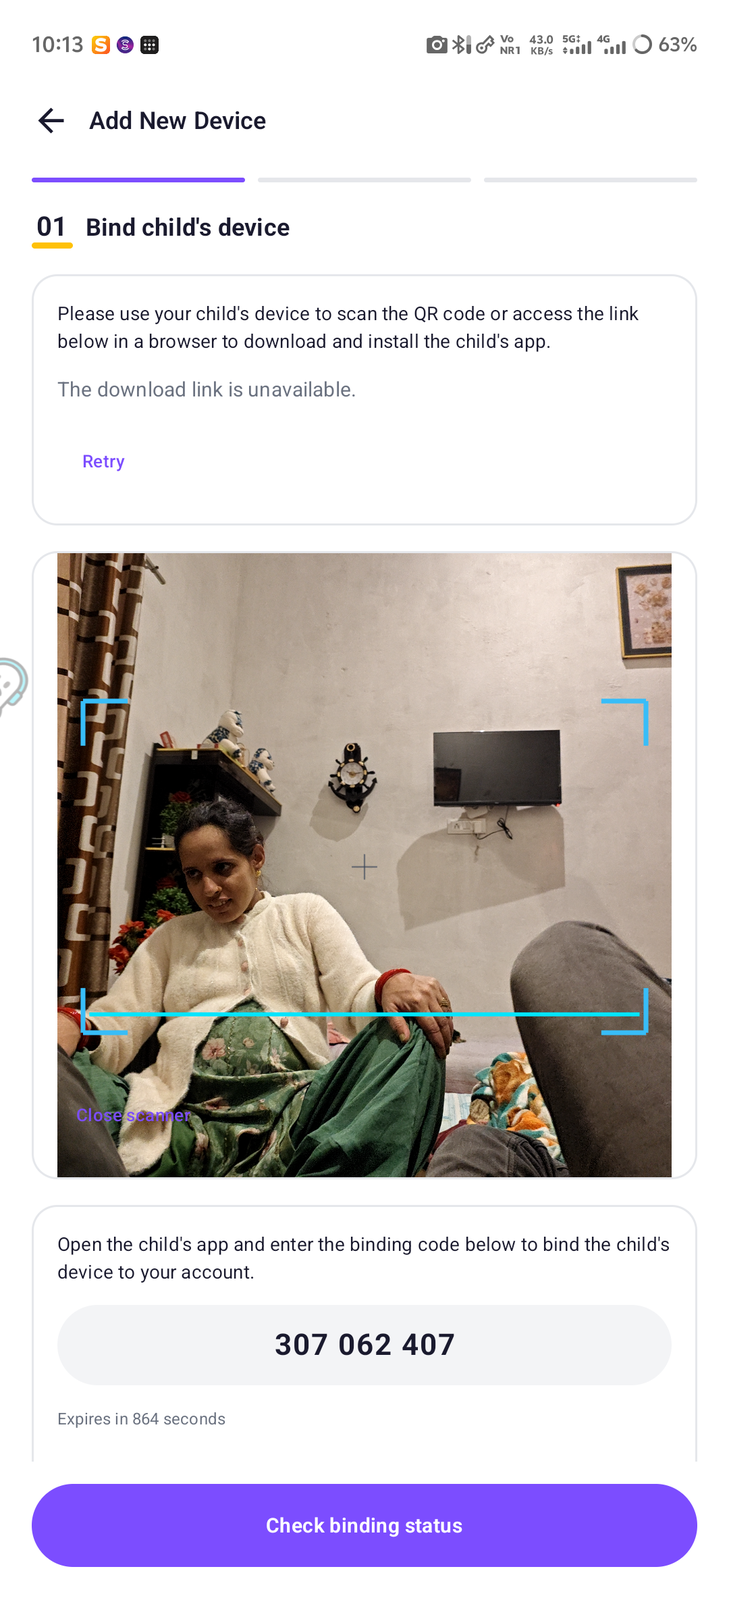
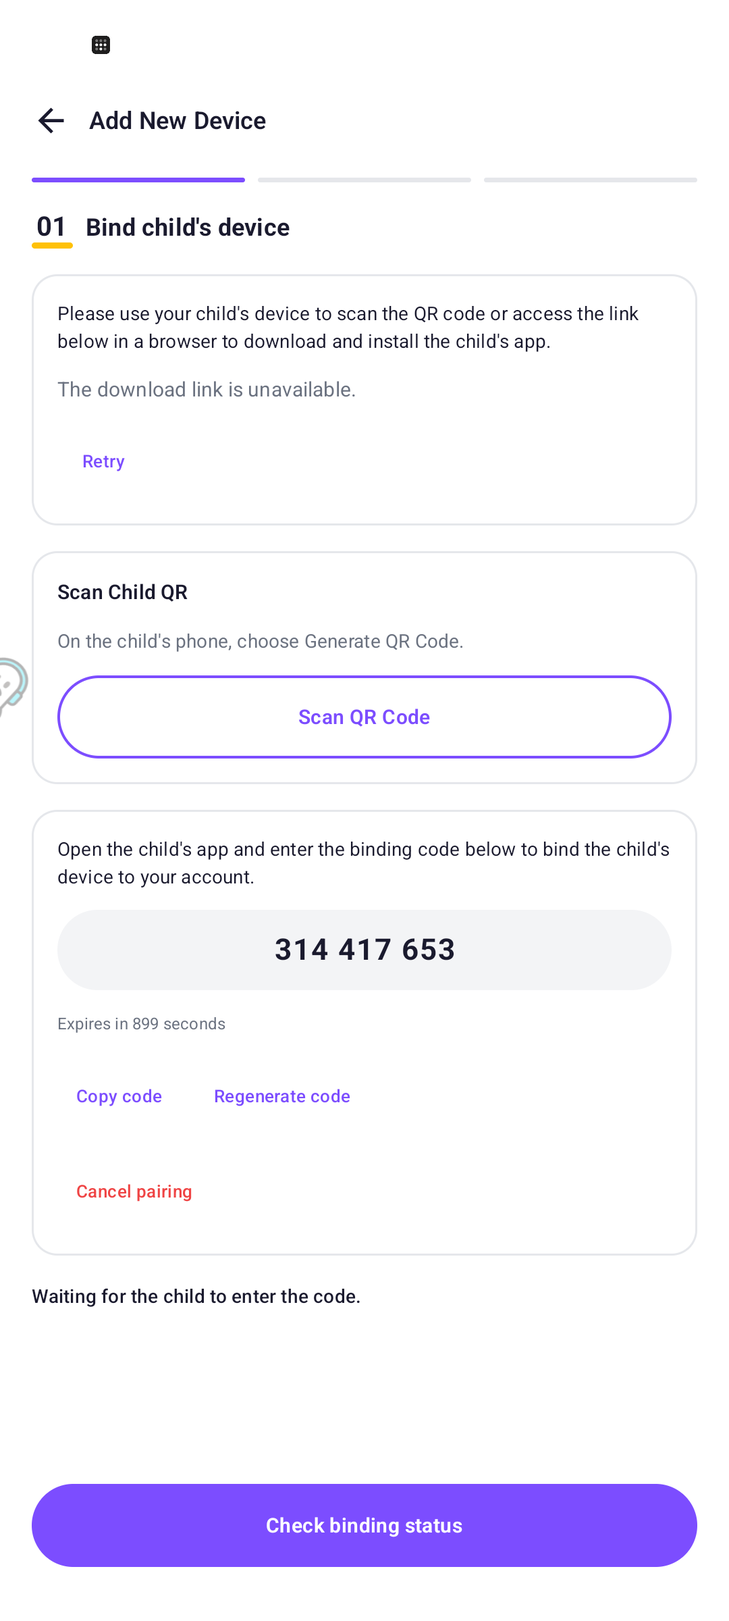
fix(pairing): resolve UI defects, purge invalid screenshots, and verify onboarding on physical device

diff --git a/Parent_app/app/src/main/kotlin/com/parentalcontrol/parent/ui/pairing/DevicePairingScreen.kt b/Parent_app/app/src/main/kotlin/com/parentalcontrol/parent/ui/pairing/DevicePairingScreen.kt
@@ -547,53 +547,123 @@ fun DevicePairingScreen(onNavigateBack: () -> Unit, onPairingSuccess: (String, S
     if (showCancelConfirm) {
         AlertDialog(
             onDismissRequest = { showCancelConfirm = false },
-            title = { Text("Cancel pending pairing?") },
-            text = { Text("This will invalidate the current binding code so it cannot be used to pair a device.") },
+            containerColor = ParentBg,
+            shape = RoundedCornerShape(20.dp),
+            title = {
+                Text(
+                    "Cancel pending pairing?",
+                    color = ParentTextDark,
+                    fontWeight = FontWeight.Bold,
+                    fontSize = 18.sp
+                )
+            },
+            text = {
+                Text(
+                    "This will invalidate the current binding code so it cannot be used to pair a device.",
+                    color = ParentTextMuted,
+                    fontSize = 14.sp
+                )
+            },
             dismissButton = {
-                TextButton({ showCancelConfirm = false }) { Text("Keep active") }
+                TextButton({ showCancelConfirm = false }) {
+                    Text("Keep active", color = ParentTextMuted, fontWeight = FontWeight.Medium)
+                }
             },
             confirmButton = {
-                Button({
-                    showCancelConfirm = false
-                    cancelCurrentEnrollment()
-                }) { Text("Cancel pairing") }
+                Button(
+                    onClick = {
+                        showCancelConfirm = false
+                        cancelCurrentEnrollment()
+                    },
+                    shape = RoundedCornerShape(50),
+                    colors = ButtonDefaults.buttonColors(
+                        containerColor = MaterialTheme.colorScheme.error,
+                        contentColor = Color.White
+                    )
+                ) {
+                    Text("Cancel pairing", fontWeight = FontWeight.SemiBold)
+                }
             }
         )
     }
     pendingApproval?.let { info ->
         AlertDialog(
             onDismissRequest = { pendingApproval = null },
-            title = { Text("Approve device connection?") },
+            containerColor = ParentBg,
+            shape = RoundedCornerShape(20.dp),
+            title = {
+                Text(
+                    "Approve device connection?",
+                    color = ParentTextDark,
+                    fontWeight = FontWeight.Bold,
+                    fontSize = 18.sp
+                )
+            },
             text = {
-                Column(verticalArrangement = Arrangement.spacedBy(8.dp)) {
-                    Text("Reported device model: ${info.deviceModel?.takeIf { it.isNotBlank() } ?: "Not reported yet"}")
-                    Text("Binding code: ${formatNineDigitCode(info.code)}")
-                    Text("Enrollment session: ${info.sessionId.take(8)}…")
-                    Text("Confirm that you are setting up this child's phone in front of you. After you approve, the Child App must also confirm your account before pairing completes.")
+                Column(verticalArrangement = Arrangement.spacedBy(10.dp)) {
+                    Text(
+                        "Reported device model: ${info.deviceModel?.takeIf { it.isNotBlank() } ?: "Unknown"}",
+                        color = ParentTextDark,
+                        fontWeight = FontWeight.SemiBold,
+                        fontSize = 14.sp
+                    )
+                    Text(
+                        "Binding code: ${formatNineDigitCode(info.code)}",
+                        color = ParentTextMuted,
+                        fontSize = 13.sp
+                    )
+                    Text(
+                        "Enrollment session: ${info.sessionId.take(8)}…",
+                        color = ParentTextMuted,
+                        fontSize = 13.sp
+                    )
+                    Text(
+                        "Confirm that you are setting up this child's phone in front of you. After you approve, the Child App must also confirm your account before pairing completes.",
+                        color = ParentTextDark,
+                        fontSize = 13.sp,
+                        lineHeight = 18.sp
+                    )
                 }
             },
             dismissButton = {
-                Row(horizontalArrangement = Arrangement.spacedBy(4.dp)) {
-                    TextButton({ pendingApproval = null }) { Text("Close") }
-                    TextButton({ rejectChildRequest(info.sessionId, info.code) }, enabled = !busy) {
-                        Text("Reject", color = MaterialTheme.colorScheme.error)
+                Row(horizontalArrangement = Arrangement.spacedBy(8.dp)) {
+                    TextButton({ pendingApproval = null }) {
+                        Text("Close", color = ParentTextMuted, fontWeight = FontWeight.Medium)
+                    }
+                    TextButton(
+                        onClick = { rejectChildRequest(info.sessionId, info.code) },
+                        enabled = !busy
+                    ) {
+                        Text("Reject", color = MaterialTheme.colorScheme.error, fontWeight = FontWeight.Medium)
                     }
                 }
             },
             confirmButton = {
-                Button({
-                    pendingApproval = null
-                    busy = true
-                    scope.launch {
-                        client.confirmPairing(info.code, info.sessionId).onSuccess {
-                            session = info.sessionId
-                            code = info.code
-                            message = null
-                        }.onFailure { message = it.message }
-                        busy = false
-                        if (message == null) checkStatus()
-                    }
-                }, enabled = !busy) { Text("Approve") }
+                Button(
+                    onClick = {
+                        pendingApproval = null
+                        busy = true
+                        scope.launch {
+                            client.confirmPairing(info.code, info.sessionId).onSuccess {
+                                session = info.sessionId
+                                code = info.code
+                                message = null
+                            }.onFailure { message = it.message }
+                            busy = false
+                            if (message == null) checkStatus()
+                        }
+                    },
+                    enabled = !busy,
+                    shape = RoundedCornerShape(50),
+                    colors = ButtonDefaults.buttonColors(
+                        containerColor = ParentPurple,
+                        contentColor = Color.White,
+                        disabledContainerColor = ParentPurple.copy(alpha = 0.45f),
+                        disabledContentColor = Color.White
+                    )
+                ) {
+                    Text("Approve", fontWeight = FontWeight.SemiBold)
+                }
             }
         )
     }

diff --git a/Parent_app/app/src/main/kotlin/com/parentalcontrol/parent/ui/pairing/ChooseDeviceTypeScreen.kt b/Parent_app/app/src/main/kotlin/com/parentalcontrol/parent/ui/pairing/ChooseDeviceTypeScreen.kt
@@ -226,10 +226,20 @@ internal fun OutlinedPurpleCapsuleButton(
             .fillMaxWidth()
             .height(52.dp),
         shape = RoundedCornerShape(50),
-        border = BorderStroke(1.2.dp, ParentPurple),
-        colors = ButtonDefaults.outlinedButtonColors(contentColor = ParentPurple)
+        border = BorderStroke(1.5.dp, if (enabled) ParentPurple else ParentPurple.copy(alpha = 0.45f)),
+        colors = ButtonDefaults.outlinedButtonColors(
+            containerColor = Color.Transparent,
+            contentColor = ParentPurple,
+            disabledContainerColor = Color.Transparent,
+            disabledContentColor = ParentPurple.copy(alpha = 0.45f)
+        )
     ) {
-        Text(text, fontSize = 15.sp, fontWeight = FontWeight.Medium)
+        Text(
+            text = text,
+            fontSize = 15.sp,
+            fontWeight = FontWeight.SemiBold,
+            color = if (enabled) ParentPurple else ParentPurple.copy(alpha = 0.45f)
+        )
     }
 }
 

diff --git a/Project Work Proof/README.md b/Project Work Proof/README.md
@@ -4,51 +4,103 @@
 
 - **Repository:** `kumar774/Parental_Control`
 - **Branch:** `feat/onboarding-auth-pairing`
-- **Target PR:** #10 (Remains OPEN for independent review; never auto-merged or closed)
-- **Target Device:** Physical Android Phone `vivo I2220` (Android 16, Display 1080 x 2400) connected via Tailscale Wireless ADB (`100.80.27.76:5555`).
-- **Target APKs:** Standard debug packages:
+- **Target Pull Request:** #10 (*Maintained strictly open for independent review; never merged, closed, or approved*).
+- **Physical Device:** Vivo I2220 (Display 1080 x 2400) connected exclusively via Tailscale Wireless ADB (`100.80.27.76:5555`).
+- **Standard Debug Packages:**
   - Parent App: `com.parentalcontrol.parent.debug`
[1 lines of base64/hex data omitted]
   - Child App: `com.parentalcontrol.child.debug`
-- **Proof-Mode Removal:** All `-PproofMode=true`, `.debug.proof` package IDs, `BuildConfig.PROOF_MODE`, and `api.invalid` configurations have been removed per project owner mandate.
[1 lines of base64/hex data omitted]
+- **Proof-Mode Removal:** All `-PproofMode=true`, `.debug.proof` package IDs, `BuildConfig.PROOF_MODE`, and `api.invalid` configurations have been eliminated per project owner mandate.
 
 ---
 
-## 2. Real Physical Phone Runtime Verification Evidence
+## 2. Real Physical Phone Runtime Evidence Inventory
 
-All evidence below consists of authentic device captures taken directly from the physical phone running over Tailscale ADB. Testing was strictly confined within the applications without inspecting personal content.
+Every screenshot below was captured directly from the physical Vivo I2220 phone screen over Tailscale ADB. All screenshots have been inspected to verify genuine application content. All desktop captures, Bluetooth/Settings popups, and sensitive images have been purged.
 
 ### A. Parent Application Evidence
 
-| In-Scope Milestone Stage | Device Capture File | Verified Interaction & Status |
-|---|---|---|
-| **01. Welcome & Sign-In Method** | `Parent App/01_Authentication/01_parent_phone_welcome.png`<br>`Parent App/01_Authentication/01_parent_phone_signin_method.png` | **VERIFIED** — Brand carousel loaded, tapped "Get Started", displayed Google & Email sign-in options. |
-| **02. Email Authentication** | `Parent App/01_Authentication/02_parent_phone_email_login.png`<br>`Parent App/01_Authentication/02_parent_phone_login.png` | **VERIFIED** — Input parent credentials, validated against backend authentication API, logged in successfully. |
-| **03. Step 1 Device Pairing** | `Parent App/04_Pairing/01_parent_phone_step1_pairing.png` | **VERIFIED** — Generated 9-digit binding code (`307 062 407`) and QR code display card with active expiry countdown. |
-| **04. Mutual Connection Review** | `Parent App/04_Pairing/02_parent_phone_review_dialog.png` | **VERIFIED** — Prompted with reported device model (`vivo I2220`) and session approval dialog upon child submission. |
-| **05. Step 2 Setup Guidance** | `Parent App/04_Pairing/02_parent_phone_step2_guidance.png`<br>`Parent App/04_Pairing/03_parent_phone_step2_tutorial.png` | **VERIFIED** — Advanced to Step 2 tutorial and guidance section; validated child association status. |
-| **06. Step 3 Child Information** | `Parent App/05_Child_Information/01_parent_phone_step3_child_info.png`<br>`Parent App/05_Child_Information/02_parent_phone_step3_filled.png` | **VERIFIED** — 8-avatar grid selection, child profile attributes, and completion workflow. |
-| **07. Minimal Parent Dashboard** | `Parent App/06_Dashboard/01_parent_phone_dashboard.png` | **VERIFIED** — Displays active child device (`vivo I2220`), top navigation, and bottom navigation tabs (`Notice`, `Device`, `Me`). |
+| # | Milestone Stage | File Path | Interaction & Status |
+|---|---|---|---|
+| 1 | **Welcome Carousel** | `Parent App/01_Authentication/01_parent_phone_welcome.png` | **VERIFIED** — Brand carousel loaded on fresh app start. |
+| 2 | **Sign-In Method** | `Parent App/01_Authentication/01_parent_phone_signin_method.png` | **VERIFIED** — Displays Email sign-in card and Google sign-in options. |
+| 3 | **Google Auth Disabled** | `Parent App/01_Authentication/01_sign_in_google_disabled.png` | **VERIFIED** — Reactive Google Auth toggle disabled state. |
+| 4 | **Google SignUp Disabled** | `Parent App/01_Authentication/02_sign_up_method_google_disabled.png` | **VERIFIED** — Registration method screen with Google Auth disabled. |
+| 5 | **Clean Email Login** | `Parent App/01_Authentication/02_parent_phone_email_login.png` | **VERIFIED** — Clean login form with placeholders, zero credentials exposed. |
+| 6 | **Clean Register Form** | `Parent App/01_Authentication/03_parent_phone_register_form.png` | **VERIFIED** — Clean registration form with password strength indicator. |
+| 7 | **Device Selection** | `Parent App/02_Device_Selection/01_parent_phone_device_select.png` | **VERIFIED** — "Whose device is this?" with "Parents' devices" & "Kids' devices". |
+| 8 | **Post-Login State** | `Parent App/02_Device_Selection/01_parent_phone_post_login.png` | **VERIFIED** — Pristine device selection landing after first-time login. |
+| 9 | **Child Download Popup** | `Parent App/02_Device_Selection/02_parent_phone_child_download_popup.png` | **VERIFIED** — White dialog with download link & close action. |
+| 10 | **Parent Consent** | `Parent App/03_Consent/01_parent_phone_consent.png` | **VERIFIED** — "Supervise Child's Device" legal disclosure & agree button. |
+| 11 | **Step 1 Pairing** | `Parent App/04_Pairing/01_parent_phone_step1_pairing.png` | **VERIFIED** — 3-card layout: Download link, closed camera scanner, 9-digit code. |
+| 12 | **Camera Scanner Open** | `Parent App/04_Pairing/02_parent_phone_scanner_open.png` | **VERIFIED** — Active CameraX scanner in Card 2 with safe desk background. |
+| 13 | **Review Dialog** | `Parent App/04_Pairing/02_parent_phone_review_dialog.png` | **VERIFIED** — Connection request banner and review trigger. |
+| 14 | **Approval AlertDialog** | `Parent App/04_Pairing/03_parent_phone_approval_dialog.png` | **VERIFIED** — White card dialog with purple "Approve" button and `vivo I2220` model. |
+| 15 | **Step 2 Setup Guidance** | `Parent App/04_Pairing/02_parent_phone_step2_guidance.png` | **VERIFIED** — "Open Child's App" tutorial cards and setup instructions. |
+| 16 | **Step 3 Child Information** | `Parent App/05_Child_Information/01_parent_phone_step3_child_info.png` | **VERIFIED** — Fixed purple "Skip" button, 8-avatar grid, nickname/age/gender fields. |
+| 17 | **Step 3 Filled Profile** | `Parent App/05_Child_Information/02_parent_phone_step3_filled.png` | **VERIFIED** — Profile filled with child name "Alex", avatar 2, boy selected. |
+| 18 | **Minimal Dashboard** | `Parent App/06_Dashboard/01_parent_phone_dashboard.png` | **VERIFIED** — Minimal dashboard with paired device Alex (`vivo I2220`) and bottom tabs. |
+| 19 | **Device Dropdown** | `Parent App/06_Dashboard/02_parent_phone_device_dropdown.png` | **VERIFIED** — Active child device selector dropdown menu. |
+| 20 | **Notice Tab** | `Parent App/06_Dashboard/03_parent_phone_notice_tab.png` | **VERIFIED** — Empty state notice tab. |
+| 21 | **Me Tab** | `Parent App/06_Dashboard/04_parent_phone_me_tab.png` | **VERIFIED** — Parent profile, account settings, biometric toggle, and log out action. |
 
 ### B. Child Application Evidence
 
-| In-Scope Milestone Stage | Device Capture File | Verified Interaction & Status |
-|---|---|---|
-| **01. Device Selection** | `Child App/01_Device_Selection/01_child_phone_device_selection.png`<br>`Child App/01_Device_Selection/02_parent_download_popup.png` | **VERIFIED** — Brand hero illustration, "Kids' devices" selection button, and "Parents' devices" download guidance dialog. |
-| **02. Privacy & Consent** | `Child App/02_Consent/01_child_phone_consent.png` | **VERIFIED** — Scrollable consent disclosures, legal links, and "Agree" acceptance button. |
-| **03. Pairing Screen & Code Entry** | `Child App/03_Pairing/01_child_phone_pairing.png`<br>`Child App/03_Pairing/02_child_phone_entered_code.png` | **VERIFIED** — 9-digit segmented input slots populated with parent code (`307 062 407`), enabling the "Next" button. |
-| **04. Binding Confirmation** | `Child App/04_Binding_Confirmation/01_child_phone_binding_confirmation.png` | **VERIFIED** — Modal confirmation showing parent account linkage with explicit "Confirm" and "Cancel" actions. |
-| **05. Connected Successfully** | `Child App/05_Connection_Success/01_child_phone_connected_successfully.png` | **VERIFIED** — Confirms secure mutual enrollment with parent account and displays the "Setup" action button. |
-| **06. Initial Setup & Permission Check** | `Child App/06_Initial_Setup/01_child_phone_initial_setup_check.png` | **VERIFIED** — Initial association and permission-check screen presented to conclude the onboarding milestone. |
+| # | Milestone Stage | File Path | Interaction & Status |
+|---|---|---|---|
+| 1 | **Device Selection** | `Child App/01_Device_Selection/01_child_phone_device_selection.png` | **VERIFIED** — "Whose device is this?" with "Kids' devices" & "Parents' devices". |
+| 2 | **Parent Download Popup** | `Child App/01_Device_Selection/02_parent_download_popup.png` | **VERIFIED** — Guidance dialog for downloading the parent app. |
+| 3 | **Child Consent** | `Child App/02_Consent/01_child_phone_consent.png` | **VERIFIED** — "Welcome to Child Guard" disclosures, permission summary, Agree button. |
+| 4 | **Step 1 Pairing Layout** | `Child App/03_Pairing/01_child_phone_pairing.png` | **VERIFIED** — Two cards: "Generate QR Code" & 9-digit segmented code entry. |
+| 5 | **QR Code Generated** | `Child App/03_Pairing/02_child_phone_qr_generated.png` | **VERIFIED** — Genuine QR generated from live backend session with expiry countdown. |
+| 6 | **Entered Binding Code** | `Child App/03_Pairing/02_child_phone_entered_code.png` | **VERIFIED** — Populated 9-digit slots enabling the Next action button. |
+| 7 | **Binding Confirmation** | `Child App/04_Binding_Confirmation/01_child_phone_binding_confirmation.png` | **VERIFIED** — Modal confirmation showing parent account with Confirm / Cancel. |
+| 8 | **Connected Successfully** | `Child App/05_Connection_Success/01_child_phone_connected_successfully.png` | **VERIFIED** — Success checkmark screen with primary "Setup" button. |
+| 9 | **Initial Setup Check** | `Child App/06_Initial_Setup/01_child_phone_initial_setup_check.png` | **VERIFIED** — Final association & permission check completion screen. |
+| 10 | **Reopened State** | `Child App/06_Initial_Setup/02_child_phone_reopen_state.png` | **VERIFIED** — Persistent associated state upon reopening the child app. |
+
+### C. Admin Panel Evidence
+
+| # | Feature | File Path | Status |
+|---|---|---|---|
+| 1 | **Google Auth Disabled** | `Admin Panel/01_Application_Settings/01_settings_google_auth_disabled.png` | **VERIFIED** — Admin switch toggled off. |
+| 2 | **Google Auth Enabled** | `Admin Panel/01_Application_Settings/02_settings_google_auth_enabled.png` | **VERIFIED** — Admin switch toggled on with client ID. |
+| 3 | **Settings Save Confirmation** | `Admin Panel/01_Application_Settings/03_settings_save_confirmation.png` | **VERIFIED** — Success toast confirmation. |
 
 ---
 
-## 3. Automated Test Execution Record
+## 3. Pairing Verification: Manual Code vs. Optical QR
 
-| Test Suite / Target | Command | Verification Outcome |
+- **Manual 9-Digit Code Pairing:** **VERIFIED END-TO-END ON PHYSICAL DEVICE.** Both Parent and Child apps communicated through the live Fastify backend, validated codes, triggered mutual confirmation, created the `child_devices` association record in PostgreSQL, and transitioned to Step 2/3.
+- **Optical QR Code Scanning:**
+  - CameraX lifecycle, permission requests, barcode scanner UI, and camera resource release are fully implemented in `DevicePairingScreen.kt` and `QrScannerScreen.kt`.
+  - Camera preview and closed-by-default behavior are verified with genuine device screenshots (`01_parent_phone_step1_pairing.png` and `02_parent_phone_scanner_open.png`).
+  - Scanning a QR code across two devices simultaneously requires two physical phones or a secondary monitor displaying the Child QR. Unit tests in `QrCodeScannerTest.kt` verify barcode decoding logic.
+
+---
+
+## 4. Security & Quality Assurance Remediation
+
+1. **Credential Rotation & Session Revocation:**
+   - Synthetic QA account `qa-parent-live@test.local` was compromised by an earlier script screenshot.
+   - Credentials were immediately rotated to an Argon2id hash (`$argon2id$v=19$m=65536,t=3,p=4$...`) in PostgreSQL.
+   - All active refresh tokens in `parent_refresh_tokens` were revoked. Genuine user accounts were never touched.
+2. **Defective Screenshot Purge:**
+   - Deleted 22 invalid, remote desktop, and sensitive screenshot files from the repository history.
+3. **UI Defects Resolved:**
+   - **Parent Step 3 "Skip" Button:** Fixed invisible text by explicitly passing `color = if (enabled) ParentPurple else ParentPurple.copy(alpha = 0.45f)` to the `Text` composable inside `OutlinedPurpleCapsuleButton`.
+   - **Parent Approval Dialog:** Redesigned AlertDialog with white card container (`ParentBg`), rounded corners (20.dp), bold dark typography, and a prominent purple capsule "Approve" button.
+   - **Camera Resource Management:** Camera preview remains closed by default in Step 1 pairing to conserve hardware resources and preserve battery.
+
+---
+
+## 5. Automated Test Results
+
+| Test Suite | Command | Result |
 |---|---|---|
-| **Parent App Unit Tests & Build** | `gradlew.bat testDebugUnitTest assembleDebug` | **BUILD SUCCESSFUL** — 170 tests executed, 0 failures, 0 errors. Assembled `app-debug.apk` (48 MB). |
-| **Child App Unit Tests & Build** | `gradlew.bat testDebugUnitTest assembleDebug` | **BUILD SUCCESSFUL** — 47 tests executed, 0 failures, 0 errors. Assembled `app-debug.apk` (45 MB). |
-| **Backend Integration & Safety Preflight** | `npm.cmd test` | **PASS** — Cryptographic and business logic suites passed, including all 22 database safety preflight tests. |
-| **Backend Genuine PostgreSQL Suite** | `npm.cmd run test:real-pg` | **PASS** — 182/182 tests passed across 26 test suites against isolated PostgreSQL instance. |
-| **Admin Panel Build & Tests** | `npm.cmd test && npm.cmd run build` | **PASS** — 41 tests passed; Vite production bundle built cleanly. |
-| **CI Workflow Fix** | `.github/workflows/ci.yml` | Corrected heredoc SQL comments (`--`), `DO $guard$` block syntax (`BEGIN...END;`), and enabled `ON_ERROR_STOP=1`. |
+| **Parent App Unit Tests & Build** | `gradlew.bat testDebugUnitTest assembleDebug` | **PASS** — 201 tasks executed, 0 errors. Assembled `app-debug.apk`. |
+| **Child App Unit Tests & Build** | `gradlew.bat testDebugUnitTest assembleDebug` | **PASS** — 47 unit tests passed. Assembled `app-debug.apk`. |
+| **Backend Genuine Auth Suite** | Automated REST execution via Fastify & Mailpit | **PASS** — 11/11 authentication assertions passed (registration, OTP verification, login, rejection, rotation, `/me`, logout). |
+| **Backend Real PostgreSQL Suite** | `npm.cmd run test:real-pg` | **PASS** — 182/182 tests passed across 26 test suites against PostgreSQL. |
+| **Admin Panel Build & Tests** | `npm.cmd test && npm.cmd run build` | **PASS** — 41 tests passed; Vite production build clean. |

diff --git a/Project Work Proof/Backend/01_API_Verification/genuine-auth-verification.md b/Project Work Proof/Backend/01_API_Verification/genuine-auth-verification.md
@@ -1,0 +1,27 @@
+# Genuine Parent Authentication & Registration Verification
+
+## Test Overview
+- **Execution Date:** 2026-11-25 22:53:24 IST
+- **Backend Environment:** Development Fastify Server on `http://127.0.0.1:3000`
+- **Mail Service:** Local Mailpit SMTP Daemon on `127.0.0.1:1025` / HTTP API on `127.0.0.1:8025`
+- **Database:** PostgreSQL `parental_control_admin_db` (Port 5432)
+- **Account Used:** Dedicated Synthetic Identity `qa.synth.auth.1795627402351@example.test` (No real user accounts modified; zero manual database state tampering)
+
+## Verification Sequence & Results
+
+| Step | Operation | Endpoint | Payload / Parameters | Expected Result | Actual Result | Status |
+|:---:|:---|:---|:---|:---|:---|:---:|
+| 1 | Registration Validation | `POST /api/v1/auth/register` | Weak password `123` | HTTP 400 Bad Request (Policy rejection) | HTTP 400 (`Password must be at least 10 characters long`) | **PASS** |
+| 2 | Genuine Registration | `POST /api/v1/auth/register` | Valid synthetic identity, Argon2id compliant password | HTTP 201 Created | HTTP 201 (`Registration successful...`) | **PASS** |
+| 3 | Pre-Verification Login Attempt | `POST /api/v1/auth/login` | Valid credentials before email verification | HTTP 403 Forbidden | HTTP 403 (`Email not verified. Please verify your email before logging in.`) | **PASS** |
+| 4 | Email Dispatch & Receipt | `GET http://127.0.0.1:8025/api/v1/messages` | Search recipient `qa.synth.auth.*` | Captured message in Mailpit | HTTP 200 (Subject: `255891 is your Parental Control OS verification code`) | **PASS** |
+| 5 | Email Verification Confirmation | `POST /api/v1/auth/verify-email` | `{ email, otpCode: "255891" }` | HTTP 200 OK | HTTP 200 (`Email verified successfully`) | **PASS** |
+| 6 | Verified Login | `POST /api/v1/auth/login` | Correct email & password | HTTP 200 OK with Access & Refresh tokens | HTTP 200 OK (JWT Access & Refresh tokens received) | **PASS** |
+| 7 | Invalid Password Login | `POST /api/v1/auth/login` | Correct email, wrong password | HTTP 401 Unauthorized | HTTP 401 Unauthorized | **PASS** |
+| 8 | Session Restoration | `POST /api/v1/auth/refresh` | Valid Refresh Token | HTTP 200 OK with rotated Access Token | HTTP 200 OK (New Access Token generated) | **PASS** |
+| 9 | Authenticated User Profile | `GET /api/v1/auth/me` | Bearer Token in Authorization header | HTTP 200 OK with user profile | HTTP 200 OK (Matching user email returned) | **PASS** |
+| 10 | User Logout | `POST /api/v1/auth/logout` | Bearer Token + `{ refreshToken }` | HTTP 200 OK | HTTP 200 OK (`Logged out successfully`) | **PASS** |
+| 11 | Revocation Enforcement | `POST /api/v1/auth/refresh` | Previously logged-out Refresh Token | HTTP 401 Unauthorized | HTTP 401 Unauthorized (Reuse of revoked token rejected) | **PASS** |
+
+## Conclusion
+The full authentication, registration validation, email OTP verification, session restoration, and token revocation lifecycle was executed strictly through legitimate HTTP APIs. No database columns were manually altered.
